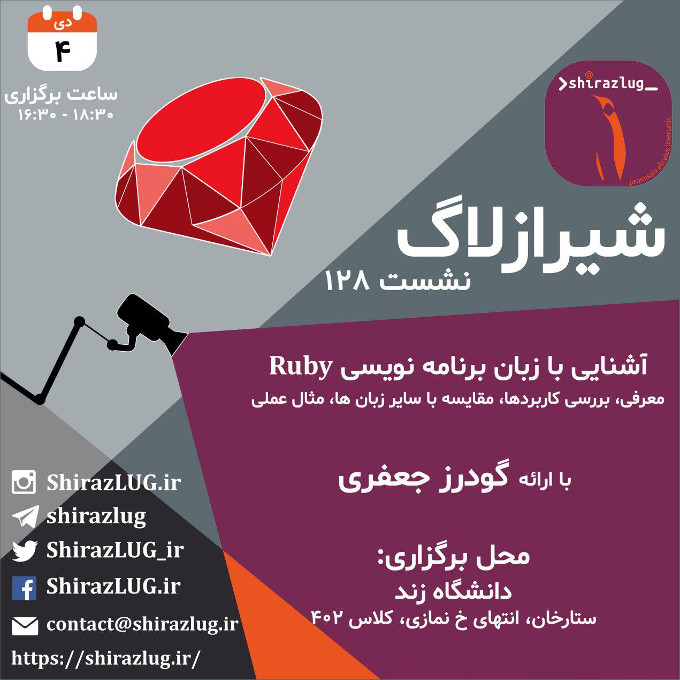
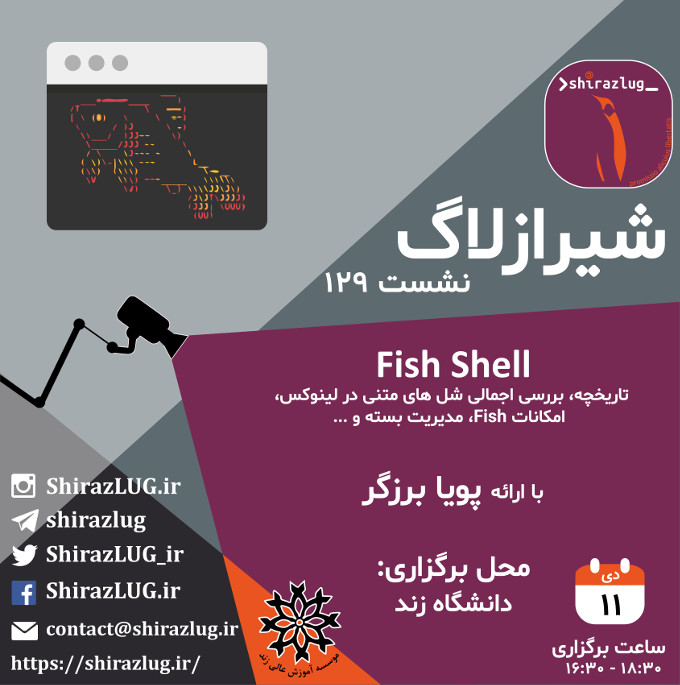
Updated Map and Links and Next_Session

diff --git a/themes/minimal/layouts/index.html b/themes/minimal/layouts/index.html
@@ -16,12 +16,12 @@
 
     <div class="row">
         <div class="col-lg-6 col-md-6 col-sm-12 col-xs-12">
-            <h6><a class="nextSessionLink" href="/session/next_session">جلسه آینده شیرازلاگ</a></h>
+            <a class="nextSessionLink" href="/session/next_session">جلسه آینده شیرازلاگ</a><br>
             <img src="img/next_session.jpg" width="400px">
         </div>
         <div class="col-lg-6 col-md-6 col-sm-12 col-xs-12">
-            <h5><a href="https://www.openstreetmap.org/?mlat=29.62560&amp;mlon=52.49339#map=19/29.62560/52.49339"> {{ markdownify .Site.Params.Address }}</a></h5>
-            <iframe width="400" height="400" frameborder="0" scrolling="no" marginheight="0" marginwidth="0" src="https://www.openstreetmap.org/export/embed.html?bbox=52.49115496873856%2C29.6245646820988%2C52.49563425779343%2C29.62663512066026&amp;layer=mapnik&amp;marker=29.62559990669784%2C52.49339461326599"></iframe>            
+            <h5><a href="http://www.openstreetmap.org/?mlat=29.63335;mlon=52.45688#map=17/29.63335/52.45688"> {{ markdownify .Site.Params.Address }}</a></h5>
+            <iframe width="400" height="400" frameborder="0" scrolling="no" marginheight="0" marginwidth="0" src="http://www.openstreetmap.org/export/embed.html?bbox=52.45405%2C29.63653%2C52.46161%2C29.63226&amp;layer=mapnik&amp;marker=29.63333927247996%2C52.45676636695862"></iframe>            
         </div>
     </div>
 </main>

diff --git a/content/session/next_session.md b/content/session/next_session.md
@@ -1,7 +1,7 @@
 +++
 title = "جلسه آینده"
 draft = false
-description= "نشست ۱۲۸. دوشنبه ۴ دی"
+description= "نشست ۱۲۹. دوشنبه ۱۱ دی"
 weight= -1
 +++
 
